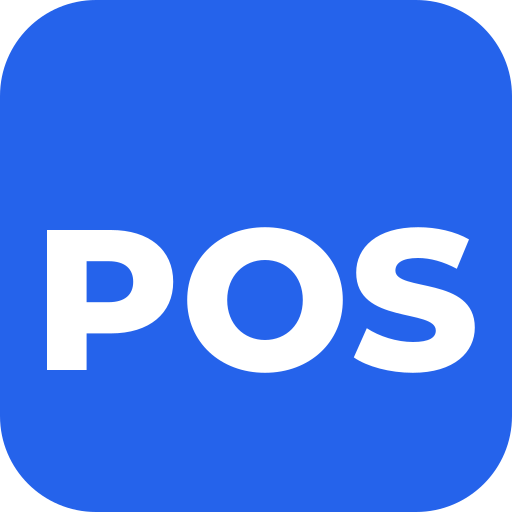
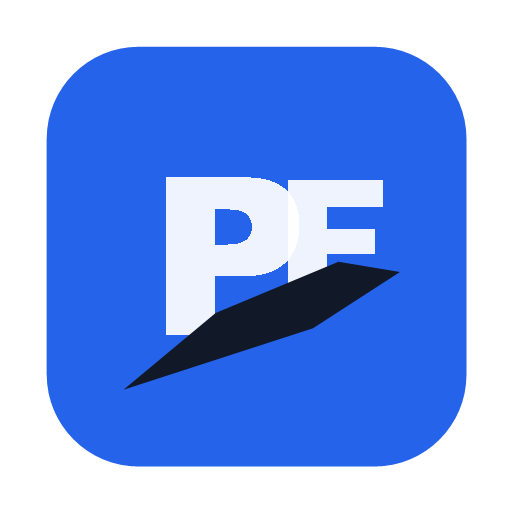
Add PrintFlow POS brand assets

diff --git a/frontend/vite.config.ts b/frontend/vite.config.ts
@@ -8,11 +8,11 @@ export default defineConfig({
     react(),
     VitePWA({
       registerType: 'autoUpdate',
-      includeAssets: ['favicon.ico', 'icon.svg'],
+      includeAssets: ['favicon.ico', 'printflow-icon.svg', 'printflow-logo-horizontal.svg'],
       manifest: {
-        name: 'T-Shirt Graphics POS',
-        short_name: 'TShirt POS',
-        description: 'Professional T-Shirt Printing POS System',
+        name: 'PrintFlow POS',
+        short_name: 'PrintFlow',
+        description: 'Production-ready POS for custom T-shirt printing shops',
         theme_color: '#2563eb',
         background_color: '#ffffff',
         display: 'standalone',
@@ -20,7 +20,7 @@ export default defineConfig({
         icons: [
           { src: '/icon-192.png', sizes: '192x192', type: 'image/png' },
           { src: '/icon-512.png', sizes: '512x512', type: 'image/png' },
-          { src: 'icon.svg', sizes: 'any', type: 'image/svg+xml', purpose: 'any maskable' },
+          { src: '/printflow-icon.svg', sizes: 'any', type: 'image/svg+xml', purpose: 'any maskable' },
         ],
       },
       workbox: {

diff --git a/frontend/index.html b/frontend/index.html
@@ -2,7 +2,9 @@
 <html lang="en">
   <head>
     <meta charset="UTF-8" />
-    <link rel="icon" type="image/svg+xml" href="/icon.svg" />
+    <link rel="icon" href="/favicon.ico" sizes="any" />
+    <link rel="icon" type="image/svg+xml" href="/printflow-icon.svg" />
+    <link rel="apple-touch-icon" href="/icon-192.png" />
     <meta name="viewport" content="width=device-width, initial-scale=1.0, viewport-fit=cover" />
     <meta name="theme-color" content="#2563eb" />
     <meta name="apple-mobile-web-app-capable" content="yes" />

diff --git a/frontend/src/pages/marketing/LandingPage.tsx b/frontend/src/pages/marketing/LandingPage.tsx
@@ -55,7 +55,11 @@ export function LandingPage(): React.JSX.Element {
             onClick={() => navigate('/')}
             className="min-h-[44px] rounded-xl px-1 text-left text-lg font-bold text-white"
           >
-            PrintFlow POS
+            <img
+              src="/printflow-logo-horizontal-white.png"
+              alt="PrintFlow POS"
+              className="h-9 w-auto"
+            />
           </button>
           <nav className="flex items-center gap-2">
             <button

diff --git a/frontend/src/pages/SignIn.tsx b/frontend/src/pages/SignIn.tsx
@@ -11,7 +11,7 @@ export function SignInPage(): JSX.Element {
         signUpUrl="/signup"
         appearance={{
           layout: {
-            logoImageUrl: '/icon.svg',
+            logoImageUrl: '/printflow-logo-horizontal.svg',
             logoLinkUrl: '/',
           },
           elements: {

diff --git a/frontend/src/main.tsx b/frontend/src/main.tsx
@@ -73,7 +73,7 @@ ReactDOM.createRoot(rootElement).render(
       publishableKey={PUBLISHABLE_KEY}
       appearance={{
         layout: {
-          logoImageUrl: '/icon.svg',
+          logoImageUrl: '/printflow-logo-horizontal.svg',
           logoLinkUrl: '/',
         },
       }}
